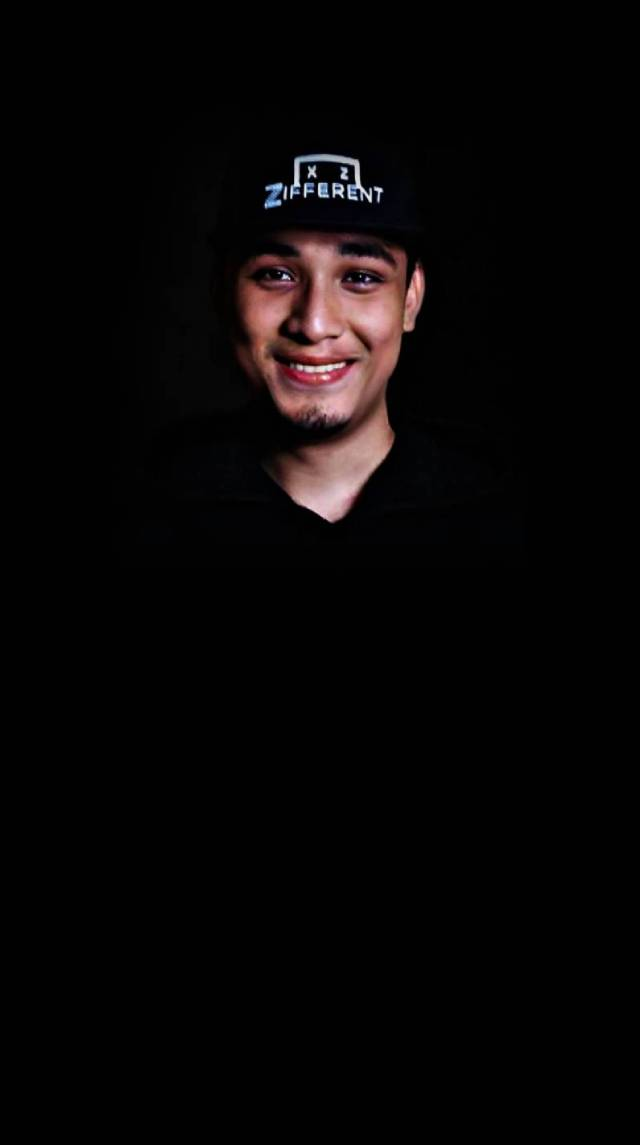
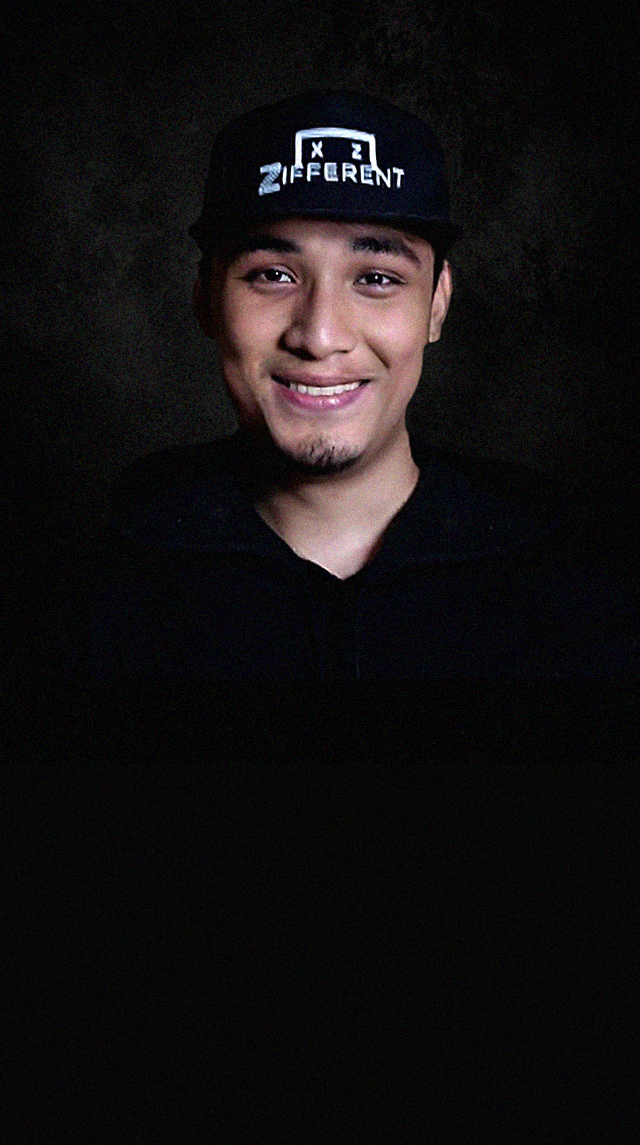
perubahan lets connect, menu, sama foto

diff --git a/index.html b/index.html
@@ -27,36 +27,12 @@
 	<!--Header-->
 	<header class="vlt-header vlt-header--default">
 		<div class="vlt-navbar vlt-navbar--main vlt-navbar--transparent vlt-navbar--sticky">
-			<div class="vlt-navbar-background"></div>
+			<div class=""></div>
 			<div class="vlt-navbar-inner">
 				<div class="vlt-navbar-inner--left">
 					<!--Logo--><a class="vlt-navbar-logo" href="index.html"><img src="assets/img/root/logo.svg" alt="Gilber"></a>
 				</div>
-				<div class="vlt-navbar-inner--center">
-					<div class="container">
-						<nav class="vlt-default-menu__navigation">
-							<!--Navigation-->
-							<ul class="sf-menu">
-								<li data-menuanchor="Home"><a href="#Home">Home</a>
-								</li>
-								<li data-menuanchor="About"><a href="#About">About</a>
-								</li>
-								<li data-menuanchor="Projects"><a href="#Projects">Projects</a>
-								</li>
-								<li data-menuanchor="Experience"><a href="#Experience">experience</a>
-								</li>
-								<li data-menuanchor="Testimonials"><a href="#Testimonials">Testimonials</a>
-								</li>
-								<li data-menuanchor="Partners"><a href="#Partners">Partners</a>
-								</li>
-								<li data-menuanchor="Blog"><a href="#Blog">Blog</a>
-								</li>
-								<li data-menuanchor="Contact"><a href="#Contact">Contact</a>
-								</li>
-							</ul>
-						</nav>
-					</div>
-				</div>
+				
 				<div class="vlt-navbar-inner--right">
 					<div class="d-flex align-items-center">
 						<!--Contacts-->
@@ -258,8 +234,8 @@
 													<div class="vlt-project-excerpt">
 														<p>in my opinion. good chemistry, will produce something extraordinary. let's connect chemistry, by looking at my work.</p>
 													</div>
-													<!--Button--><a class="vlt-btn vlt-btn--secondary vlt-btn--md" style="margin:5px;" href="single-product.html" target="_self">See Visual Project</a>
-													<!--Button--><a class="vlt-btn vlt-btn--secondary vlt-btn--md" style="margin:5px;" href="single-product.html" target="_self">See Video Project</a>
+													<!--Button--><a class="vlt-btn vlt-btn--secondary vlt-btn--md" style="margin:5px;" href="https://www.behance.net/mrzhen007f91" target="_self">See Visual Project</a>
+													<!--Button--><a class="vlt-btn vlt-btn--secondary vlt-btn--md" style="margin:5px;" href="https://www.youtube.com/channel/UCXRF_IQluHQ4bysB9nQjD0A" target="_self">See Video Project</a>
 												</article>
 											</div>
 											
